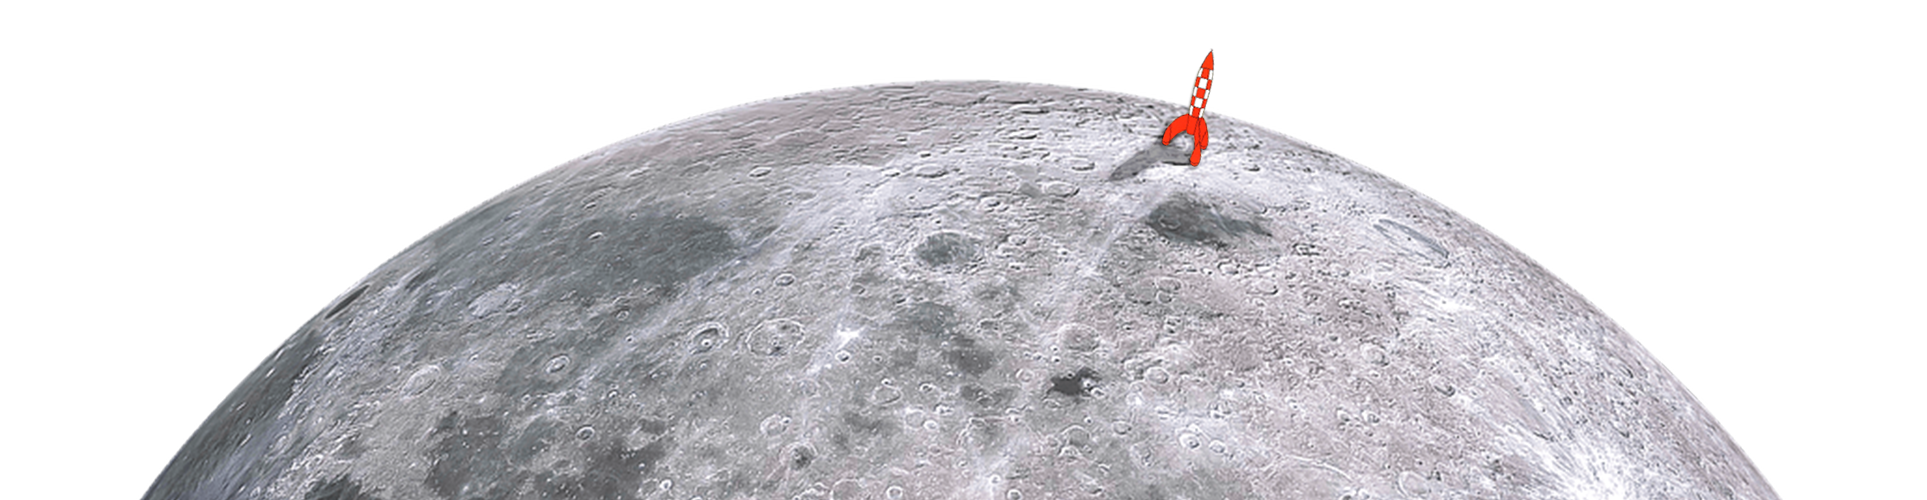
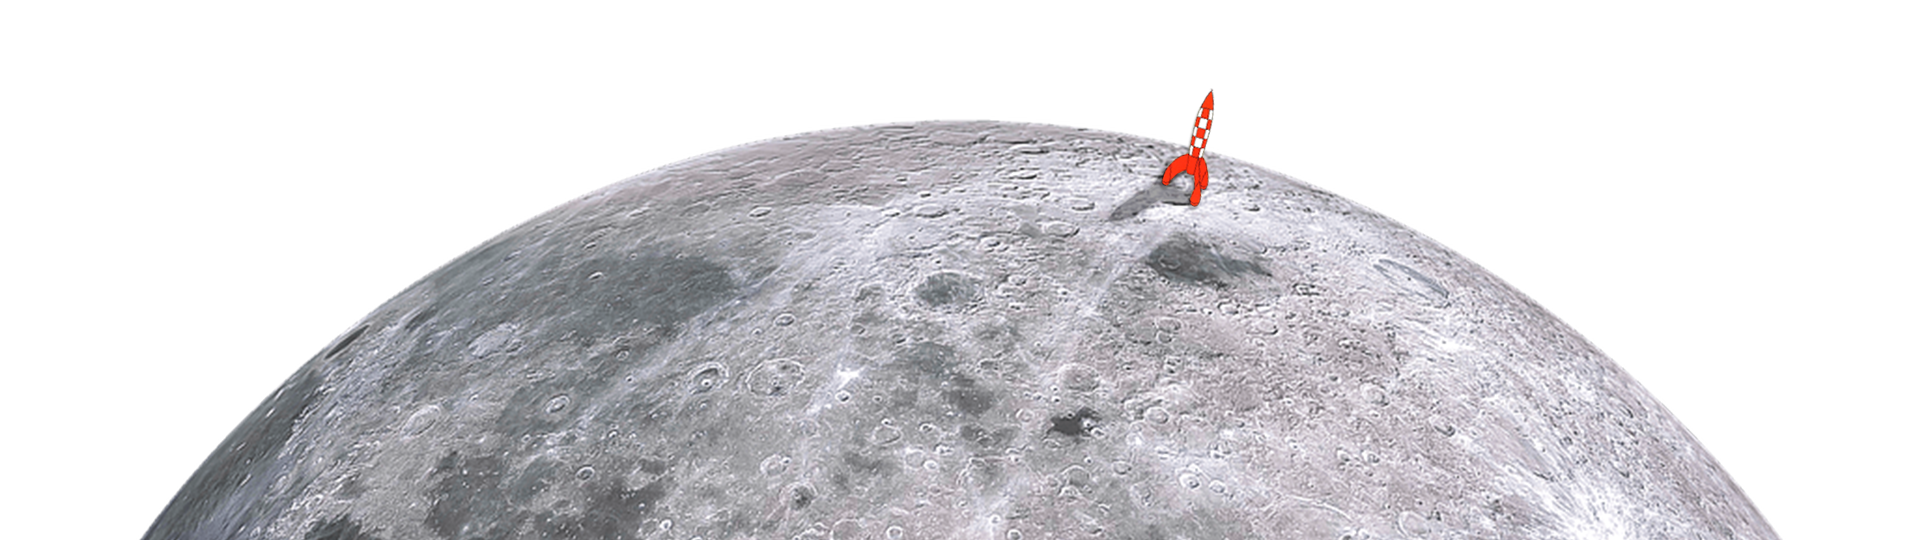
:sparkles: feat(footer) : Add footer information

Changed region(s): [[0.0934, 0.12, 0.9341, 0.99]]

diff --git a/src/components/Home/footer/Footer.tsx b/src/components/Home/footer/Footer.tsx
@@ -1,13 +1,34 @@
 import './Footer.scss';
-import Earth from './../../../assets/images/earth.png';
-import EarthCatoon from './../../../assets/images/earth-cartoon.png';
-import Moon from './../../../assets/images/moon.png';
+//import Earth from './../../../assets/images/earth.png';
+//import EarthCatoon from './../../../assets/images/earth-cartoon.png';
+//import Moon from './../../../assets/images/moon.png';
 import MoonTintin from './../../../assets/images/moon_tintin.png';
 
 export default function Footer() {
   return (
-    <footer>
+    <footer className="relative right-0 left-0">
       <img src={MoonTintin} alt="Planet" className="max-w-7xl object-cover" />
+      <div className="back absolute bottom-0"></div>
+      <div className="footer-text absolute bottom-0 left-0 right-0 mb-5 text-center text-lg font-thin text-white shadow-md">
+        Made with 🧡 and powered by{' '}
+        <span className=" font-bold  text-yellow-500">
+          <a target="_blank" href="https://reactjs.org/">
+            React
+          </a>
+        </span>
+        ,{' '}
+        <span className=" font-bold  text-yellow-500">
+          <a target="_blank" href="https://tailwindcss.com/">
+            Tailwind
+          </a>
+        </span>{' '}
+        and{' '}
+        <span className=" font-bold  text-yellow-500">
+          <a target="_blank" href="https://firebase.google.com/">
+            Firebase
+          </a>
+        </span>
+      </div>
     </footer>
   );
 }

diff --git a/src/components/Home/footer/Footer.scss b/src/components/Home/footer/Footer.scss
@@ -2,4 +2,31 @@ footer {
   display: flex;
   justify-content: center;
   overflow: hidden;
+
+  img {
+    transition: all 1s ease-in-out;
+    transform: translateY(40px);
+    animation: infinite 20s moon-moove ease-in-out;
+  }
+
+  .back {
+    height: 160px;
+    background: linear-gradient(0, black, #00000000);
+    width: 100%;
+  }
+  .footer-text {
+    font-family: 'Rajdhani', sans-serif;
+  }
+}
+
+@keyframes moon-moove {
+  0% {
+    transform: translateY(0px);
+  }
+  50% {
+    transform: translateY(20px) scale(1.1) rotate3d(0, 10, 0, 5deg);
+  }
+  100% {
+    transform: translateY(0px);
+  }
 }
